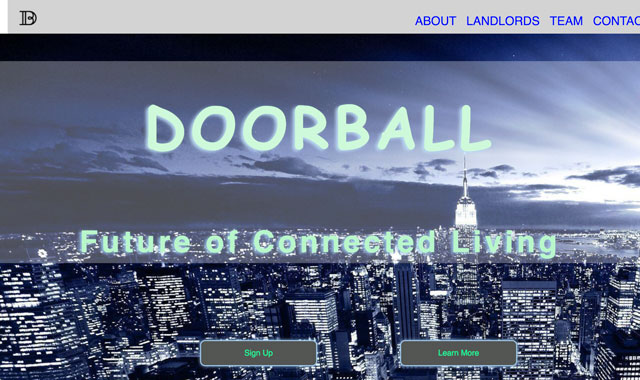
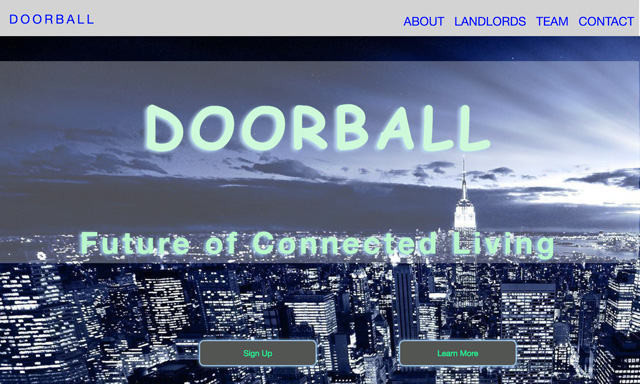
more fixes to alan's project

diff --git a/student-projects/2017/aug-sep/alan/index.html b/student-projects/2017/aug-sep/alan/index.html
@@ -23,13 +23,13 @@
 <body>
   <!-- Header -->
   <header class="header">
-    <a href="#" class="site-title">Doorball</a>
+    <a href="#" class="site-title">DOORBALL</a>
     <nav class="nav-menu">
       <ul class="nav-menu-list">
         <li class="nav-menu-list-item"><a href="#" class="nav-menu-link">About</a></li>
-        <li class="nav-menu-list-item"><a href="https://www.doorball.me/copy-of-landlords" class="nav-menu-link">Landlords</a></li>
-        <li class="nav-menu-list-item"><a href="https://www.doorball.me/team" class="nav-menu-link">Team</a></li>
-        <li class="nav-menu-list-item"><a href="mailto:support@doorball.me" class="nav-menu-link">Contact</a></li>
+        <li class="nav-menu-list-item"><a href="#" class="nav-menu-link">Landlords</a></li>
+        <li class="nav-menu-list-item"><a href="#" class="nav-menu-link">Team</a></li>
+        <li class="nav-menu-list-item"><a href="#" class="nav-menu-link">Contact</a></li>
       </ul>
     </nav>
   </header>
@@ -39,7 +39,7 @@
     <h1>DOORBALL</h1>
     <h2>Future of Connected Living</h2>
     <form>
-      <a href="mailto:support@doorball.me"><input class="button1" value="Sign Up" onclick="window.location.href="'support@doorball.me/button-links.php'"/></a>
+      <a href="mailto:support@doorball.me"><input class="button1" value="Sign Up"/></a>
     </form>
     <form>
     <a href="#more_infoo"><input class="button2" value="Learn More" />
@@ -48,7 +48,7 @@
     <p class="font_6" style="font-size:22px; line-height:1.3em;"><span style="font-size:22px;"><span class="wixGuard"></span></span></p>
     <p class="font_6" style="font-size:22px; line-height:1.3em;"><span style="font-size:22px; width: 700px"><span style="color:#191970;"><span style="letter-spacing:0em;">Doorball is the leading amenity activation platform built for multifamily housing. We supercharge your apartment community through our curated community event experiences. Our app cultivates a sense of belonging by using design thinking to reimagine tribe society in today's digital age.  </span></span></span></p>
     <p class="font_7" style="font-size:19px; line-height:1.3em;"><span class="wixGuard"></span></p>
-    <p class="font_7" style="font-size:19px; line-height:1.3em;"><span style="display:none;">&nbsp;</span></p></div><div style="position: absolute; width: 249px; height: 492px; top: 48px; left: 83px;" class="s_BIwzIGroupSkin" id="comp-ix6okwep" data-reactid=".0.$SITE_ROOT.$desktop_siteRoot.$PAGES_CONTAINER.$centeredContent.$inlineContent.$SITE_PAGES.$c1dmp_DESKTOP.$inlineContent.$comp-ihj9aqpb.$inlineContent.$mediair8ehrsh1/=1$mediair8ehrsh1.$inlineContent.$comp-ix6okwep"><div id="comp-ix6okwepinlineContent" class="s_BIwzIGroupSkininlineContent" data-reactid=".0.$SITE_ROOT.$desktop_siteRoot.$PAGES_CONTAINER.$centeredContent.$inlineContent.$SITE_PAGES.$c1dmp_DESKTOP.$inlineContent.$comp-ihj9aqpb.$inlineContent.$mediair8ehrsh1/=1$mediair8ehrsh1.$inlineContent.$comp-ix6okwep.$inlineContent"><div style="position: absolute; width: 249px; height: 492px; top: 0px; left: 0px;" data-exact-height="492" data-content-padding-horizontal="0" data-content-padding-vertical="0" title="" class="wp2" id="comp-iln2j29b" data-reactid=".0.$SITE_ROOT.$desktop_siteRoot.$PAGES_CONTAINER.$centeredContent.$inlineContent.$SITE_PAGES.$c1dmp_DESKTOP.$inlineContent.$comp-ihj9aqpb.$inlineContent.$mediair8ehrsh1/=1$mediair8ehrsh1.$inlineContent.$comp-ix6okwep.$inlineContent.$comp-iln2j29b"><div style="width: 249px; height: 492px;" id="comp-iln2j29blink" class="wp2link" data-reactid=".0.$SITE_ROOT.$desktop_siteRoot.$PAGES_CONTAINER.$centeredContent.$inlineContent.$SITE_PAGES.$c1dmp_DESKTOP.$inlineContent.$comp-ihj9aqpb.$inlineContent.$mediair8ehrsh1/=1$mediair8ehrsh1.$inlineContent.$comp-ix6okwep.$inlineContent.$comp-iln2j29b.$link"><div id="comp-iln2j29bimg" data-style="" class="wp2img" data-reactid=".0.$SITE_ROOT.$desktop_siteRoot.$PAGES_CONTAINER.$centeredContent.$inlineContent.$SITE_PAGES.$c1dmp_DESKTOP.$inlineContent.$comp-ihj9aqpb.$inlineContent.$mediair8ehrsh1/=1$mediair8ehrsh1.$inlineContent.$comp-ix6okwep.$inlineContent.$comp-iln2j29b.$link.0" style="position: relative; width: 249px; height: 492px;"><div class="wp2imgpreloader" id="comp-iln2j29bimgpreloader" data-reactid=".0.$SITE_ROOT.$desktop_siteRoot.$PAGES_CONTAINER.$centeredContent.$inlineContent.$SITE_PAGES.$c1dmp_DESKTOP.$inlineContent.$comp-ihj9aqpb.$inlineContent.$mediair8ehrsh1/=1$mediair8ehrsh1.$inlineContent.$comp-ix6okwep.$inlineContent.$comp-iln2j29b.$link.0.$preloader"></div><img id="comp-iln2j29bimgimage" alt="" data-type="image" data-reactid=".0.$SITE_ROOT.$desktop_siteRoot.$PAGES_CONTAINER.$centeredContent.$inlineContent.$SITE_PAGES.$c1dmp_DESKTOP.$inlineContent.$comp-ihj9aqpb.$inlineContent.$mediair8ehrsh1/=1$mediair8ehrsh1.$inlineContent.$comp-ix6okwep.$inlineContent.$comp-iln2j29b.$link.0.$image" src="https://static.wixstatic.com/media/edfab9_2914b172f4fe46c3925c3555afad12b3.png/v1/crop/x_540,y_140,w_850,h_1673/fill/w_249,h_492,al_c,usm_0.66_1.00_0.01/edfab9_2914b172f4fe46c3925c3555afad12b3.png" style="width: 249px; height: 492px; object-fit: cover;"><div class="iphoneoverlay"></div></div></div></div><div style="position: absolute; width: 203px; height: 359px; top: 66px; left: 27px;" data-exact-height="359" data-content-padding-horizontal="0" data-content-padding-vertical="0" title="" class="wp2" id="comp-iqy81qho" data-reactid=".0.$SITE_ROOT.$desktop_siteRoot.$PAGES_CONTAINER.$centeredContent.$inlineContent.$SITE_PAGES.$c1dmp_DESKTOP.$inlineContent.$comp-ihj9aqpb.$inlineContent.$mediair8ehrsh1/=1$mediair8ehrsh1.$inlineContent.$comp-ix6okwep.$inlineContent.$comp-iqy81qho"><div style="width: 203px; height: 359px;" id="comp-iqy81qholink" class="wp2link" data-reactid=".0.$SITE_ROOT.$desktop_siteRoot.$PAGES_CONTAINER.$centeredContent.$inlineContent.$SITE_PAGES.$c1dmp_DESKTOP.$inlineContent.$comp-ihj9aqpb.$inlineContent.$mediair8ehrsh1/=1$mediair8ehrsh1.$inlineContent.$comp-ix6okwep.$inlineContent.$comp-iqy81qho.$link"><div id="comp-iqy81qhoimg" data-style="" class="wp2img" data-reactid=".0.$SITE_ROOT.$desktop_siteRoot.$PAGES_CONTAINER.$centeredContent.$inlineContent.$SITE_PAGES.$c1dmp_DESKTOP.$inlineContent.$comp-ihj9aqpb.$inlineContent.$mediair8ehrsh1/=1$mediair8ehrsh1.$inlineContent.$comp-ix6okwep.$inlineContent.$comp-iqy81qho.$link.0" style="position: relative; width: 203px; height: 359px;"><div class="wp2imgpreloader" id="comp-iqy81qhoimgpreloader" data-reactid=".0.$SITE_ROOT.$desktop_siteRoot.$PAGES_CONTAINER.$centeredContent.$inlineContent.$SITE_PAGES.$c1dmp_DESKTOP.$inlineContent.$comp-ihj9aqpb.$inlineContent.$mediair8ehrsh1/=1$mediair8ehrsh1.$inlineContent.$comp-ix6okwep.$inlineContent.$comp-iqy81qho.$link.0.$preloader"></div></div></div></div></div></div><div style="left: 425px; position: absolute; top: 390px; width: 91px; height: 32px;" data-exact-height="32" data-content-padding-horizontal="0" data-content-padding-vertical="0" title="" class="wp2" id="comp-j285w1uh" data-reactid=".0.$SITE_ROOT.$desktop_siteRoot.$PAGES_CONTAINER.$centeredContent.$inlineContent.$SITE_PAGES.$c1dmp_DESKTOP.$inlineContent.$comp-ihj9aqpb.$inlineContent.$mediair8ehrsh1/=1$mediair8ehrsh1.$inlineContent.$comp-j285w1uh"><a style="cursor: pointer; width: 91px; height: 32px;" href="https://play.google.com/store/apps/details?id=com.doorball_react_native" target="_blank" data-content="https://play.google.com/store/apps/details?id=com.doorball_react_native" data-type="external" id="comp-j285w1uhlink" class="wp2link" data-reactid=".0.$SITE_ROOT.$desktop_siteRoot.$PAGES_CONTAINER.$centeredContent.$inlineContent.$SITE_PAGES.$c1dmp_DESKTOP.$inlineContent.$comp-ihj9aqpb.$inlineContent.$mediair8ehrsh1/=1$mediair8ehrsh1.$inlineContent.$comp-j285w1uh.$link"><div id="comp-j285w1uhimg" data-style="" class="wp2img" data-reactid=".0.$SITE_ROOT.$desktop_siteRoot.$PAGES_CONTAINER.$centeredContent.$inlineContent.$SITE_PAGES.$c1dmp_DESKTOP.$inlineContent.$comp-ihj9aqpb.$inlineContent.$mediair8ehrsh1/=1$mediair8ehrsh1.$inlineContent.$comp-j285w1uh.$link.0" style="position: relative; width: 91px; height: 32px;"><div class="wp2imgpreloader" id="comp-j285w1uhimgpreloader" data-reactid=".0.$SITE_ROOT.$desktop_siteRoot.$PAGES_CONTAINER.$centeredContent.$inlineContent.$SITE_PAGES.$c1dmp_DESKTOP.$inlineContent.$comp-ihj9aqpb.$inlineContent.$mediair8ehrsh1/=1$mediair8ehrsh1.$inlineContent.$comp-j285w1uh.$link.0.$preloader"></div></div></a></div><div style="left: 574px; position: absolute; top: 390px; width: 91px; height: 32px;" data-exact-height="32" data-content-padding-horizontal="0" data-content-padding-vertical="0" title="" class="wp2" id="comp-j285w1uk" data-reactid=".0.$SITE_ROOT.$desktop_siteRoot.$PAGES_CONTAINER.$centeredContent.$inlineContent.$SITE_PAGES.$c1dmp_DESKTOP.$inlineContent.$comp-ihj9aqpb.$inlineContent.$mediair8ehrsh1/=1$mediair8ehrsh1.$inlineContent.$comp-j285w1uk"><a style="cursor: pointer; width: 91px; height: 32px;" href="#" target="_blank" data-content="#" data-type="external" id="comp-j285w1uklink" class="wp2link" data-reactid=".0.$SITE_ROOT.$desktop_siteRoot.$PAGES_CONTAINER.$centeredContent.$inlineContent.$SITE_PAGES.$c1dmp_DESKTOP.$inlineContent.$comp-ihj9aqpb.$inlineContent.$mediair8ehrsh1/=1$mediair8ehrsh1.$inlineContent.$comp-j285w1uk.$link"><div id="comp-j285w1ukimg" data-style="" class="wp2img" data-reactid=".0.$SITE_ROOT.$desktop_siteRoot.$PAGES_CONTAINER.$centeredContent.$inlineContent.$SITE_PAGES.$c1dmp_DESKTOP.$inlineContent.$comp-ihj9aqpb.$inlineContent.$mediair8ehrsh1/=1$mediair8ehrsh1.$inlineContent.$comp-j285w1uk.$link.0" style="position: relative; width: 91px; height: 32px;"><div class="wp2imgpreloader" id="comp-j285w1ukimgpreloader" data-reactid=".0.$SITE_ROOT.$desktop_siteRoot.$PAGES_CONTAINER.$centeredContent.$inlineContent.$SITE_PAGES.$c1dmp_DESKTOP.$inlineContent.$comp-ihj9aqpb.$inlineContent.$mediair8ehrsh1/=1$mediair8ehrsh1.$inlineContent.$comp-j285w1uk.$link.0.$preloader"></div><img id="comp-j285w1ukimgimage" alt="" data-type="image" data-reactid=".0.$SITE_ROOT.$desktop_siteRoot.$PAGES_CONTAINER.$centeredContent.$inlineContent.$SITE_PAGES.$c1dmp_DESKTOP.$inlineContent.$comp-ihj9aqpb.$inlineContent.$mediair8ehrsh1/=1$mediair8ehrsh1.$inlineContent.$comp-j285w1uk.$link.0.$image" src="https://static.wixstatic.com/media/edfab9_9a346831c34746cd868e606a84f53022~mv2.png/v1/fill/w_91,h_32,al_c,usm_0.66_1.00_0.01/edfab9_9a346831c34746cd868e606a84f53022~mv2.png" style="width: 91px; height: 32px; object-fit: cover;"></div></a></div></div>
+    <p class="font_7" style="font-size:19px; line-height:1.3em;"><span style="display:none;">&nbsp;</span></p></div><div style="position: absolute; width: 249px; height: 492px; top: 48px; left: 83px;" class="s_BIwzIGroupSkin" id="comp-ix6okwep" data-reactid=".0.$SITE_ROOT.$desktop_siteRoot.$PAGES_CONTAINER.$centeredContent.$inlineContent.$SITE_PAGES.$c1dmp_DESKTOP.$inlineContent.$comp-ihj9aqpb.$inlineContent.$mediair8ehrsh1/=1$mediair8ehrsh1.$inlineContent.$comp-ix6okwep"><div id="comp-ix6okwepinlineContent" class="s_BIwzIGroupSkininlineContent" data-reactid=".0.$SITE_ROOT.$desktop_siteRoot.$PAGES_CONTAINER.$centeredContent.$inlineContent.$SITE_PAGES.$c1dmp_DESKTOP.$inlineContent.$comp-ihj9aqpb.$inlineContent.$mediair8ehrsh1/=1$mediair8ehrsh1.$inlineContent.$comp-ix6okwep.$inlineContent"><div style="position: absolute; width: 249px; height: 492px; top: 0px; left: 0px;" data-exact-height="492" data-content-padding-horizontal="0" data-content-padding-vertical="0" title="" class="wp2" id="comp-iln2j29b" data-reactid=".0.$SITE_ROOT.$desktop_siteRoot.$PAGES_CONTAINER.$centeredContent.$inlineContent.$SITE_PAGES.$c1dmp_DESKTOP.$inlineContent.$comp-ihj9aqpb.$inlineContent.$mediair8ehrsh1/=1$mediair8ehrsh1.$inlineContent.$comp-ix6okwep.$inlineContent.$comp-iln2j29b"><div style="width: 249px; height: 492px;" id="comp-iln2j29blink" class="wp2link" data-reactid=".0.$SITE_ROOT.$desktop_siteRoot.$PAGES_CONTAINER.$centeredContent.$inlineContent.$SITE_PAGES.$c1dmp_DESKTOP.$inlineContent.$comp-ihj9aqpb.$inlineContent.$mediair8ehrsh1/=1$mediair8ehrsh1.$inlineContent.$comp-ix6okwep.$inlineContent.$comp-iln2j29b.$link"><div id="comp-iln2j29bimg" data-style="" class="wp2img" data-reactid=".0.$SITE_ROOT.$desktop_siteRoot.$PAGES_CONTAINER.$centeredContent.$inlineContent.$SITE_PAGES.$c1dmp_DESKTOP.$inlineContent.$comp-ihj9aqpb.$inlineContent.$mediair8ehrsh1/=1$mediair8ehrsh1.$inlineContent.$comp-ix6okwep.$inlineContent.$comp-iln2j29b.$link.0" style="position: relative; width: 249px; height: 492px;"><div class="wp2imgpreloader" id="comp-iln2j29bimgpreloader" data-reactid=".0.$SITE_ROOT.$desktop_siteRoot.$PAGES_CONTAINER.$centeredContent.$inlineContent.$SITE_PAGES.$c1dmp_DESKTOP.$inlineContent.$comp-ihj9aqpb.$inlineContent.$mediair8ehrsh1/=1$mediair8ehrsh1.$inlineContent.$comp-ix6okwep.$inlineContent.$comp-iln2j29b.$link.0.$preloader"></div><img id="comp-iln2j29bimgimage" alt="" data-type="image" data-reactid=".0.$SITE_ROOT.$desktop_siteRoot.$PAGES_CONTAINER.$centeredContent.$inlineContent.$SITE_PAGES.$c1dmp_DESKTOP.$inlineContent.$comp-ihj9aqpb.$inlineContent.$mediair8ehrsh1/=1$mediair8ehrsh1.$inlineContent.$comp-ix6okwep.$inlineContent.$comp-iln2j29b.$link.0.$image" src="https://static.wixstatic.com/media/edfab9_2914b172f4fe46c3925c3555afad12b3.png/v1/crop/x_540,y_140,w_850,h_1673/fill/w_249,h_492,al_c,usm_0.66_1.00_0.01/edfab9_2914b172f4fe46c3925c3555afad12b3.png" style="width: 249px; height: 492px; object-fit: cover;"><div class="iphoneoverlay"></div></div></div></div><div style="position: absolute; width: 203px; height: 359px; top: 66px; left: 27px;" data-exact-height="359" data-content-padding-horizontal="0" data-content-padding-vertical="0" title="" class="wp2" id="comp-iqy81qho" data-reactid=".0.$SITE_ROOT.$desktop_siteRoot.$PAGES_CONTAINER.$centeredContent.$inlineContent.$SITE_PAGES.$c1dmp_DESKTOP.$inlineContent.$comp-ihj9aqpb.$inlineContent.$mediair8ehrsh1/=1$mediair8ehrsh1.$inlineContent.$comp-ix6okwep.$inlineContent.$comp-iqy81qho"><div style="width: 203px; height: 359px;" id="comp-iqy81qholink" class="wp2link" data-reactid=".0.$SITE_ROOT.$desktop_siteRoot.$PAGES_CONTAINER.$centeredContent.$inlineContent.$SITE_PAGES.$c1dmp_DESKTOP.$inlineContent.$comp-ihj9aqpb.$inlineContent.$mediair8ehrsh1/=1$mediair8ehrsh1.$inlineContent.$comp-ix6okwep.$inlineContent.$comp-iqy81qho.$link"><div id="comp-iqy81qhoimg" data-style="" class="wp2img" data-reactid=".0.$SITE_ROOT.$desktop_siteRoot.$PAGES_CONTAINER.$centeredContent.$inlineContent.$SITE_PAGES.$c1dmp_DESKTOP.$inlineContent.$comp-ihj9aqpb.$inlineContent.$mediair8ehrsh1/=1$mediair8ehrsh1.$inlineContent.$comp-ix6okwep.$inlineContent.$comp-iqy81qho.$link.0" style="position: relative; width: 203px; height: 359px;"><div class="wp2imgpreloader" id="comp-iqy81qhoimgpreloader" data-reactid=".0.$SITE_ROOT.$desktop_siteRoot.$PAGES_CONTAINER.$centeredContent.$inlineContent.$SITE_PAGES.$c1dmp_DESKTOP.$inlineContent.$comp-ihj9aqpb.$inlineContent.$mediair8ehrsh1/=1$mediair8ehrsh1.$inlineContent.$comp-ix6okwep.$inlineContent.$comp-iqy81qho.$link.0.$preloader"></div></div></div></div></div></div><div style="left: 425px; position: absolute; top: 390px; width: 91px; height: 32px;" data-exact-height="32" data-content-padding-horizontal="0" data-content-padding-vertical="0" title="" class="wp2" id="comp-j285w1uh" data-reactid=".0.$SITE_ROOT.$desktop_siteRoot.$PAGES_CONTAINER.$centeredContent.$inlineContent.$SITE_PAGES.$c1dmp_DESKTOP.$inlineContent.$comp-ihj9aqpb.$inlineContent.$mediair8ehrsh1/=1$mediair8ehrsh1.$inlineContent.$comp-j285w1uh"><a style="cursor: pointer; width: 91px; height: 32px;" href="https://play.google.com/store/apps/details?id=com.doorball_react_native" target="_blank" data-content="https://play.google.com/store/apps/details?id=com.doorball_react_native" data-type="external" id="comp-j285w1uhlink" class="wp2link" data-reactid=".0.$SITE_ROOT.$desktop_siteRoot.$PAGES_CONTAINER.$centeredContent.$inlineContent.$SITE_PAGES.$c1dmp_DESKTOP.$inlineContent.$comp-ihj9aqpb.$inlineContent.$mediair8ehrsh1/=1$mediair8ehrsh1.$inlineContent.$comp-j285w1uh.$link"><div id="comp-j285w1uhimg" data-style="" class="wp2img" data-reactid=".0.$SITE_ROOT.$desktop_siteRoot.$PAGES_CONTAINER.$centeredContent.$inlineContent.$SITE_PAGES.$c1dmp_DESKTOP.$inlineContent.$comp-ihj9aqpb.$inlineContent.$mediair8ehrsh1/=1$mediair8ehrsh1.$inlineContent.$comp-j285w1uh.$link.0" style="position: relative; width: 91px; height: 32px;"><div class="wp2imgpreloader" id="comp-j285w1uhimgpreloader" data-reactid=".0.$SITE_ROOT.$desktop_siteRoot.$PAGES_CONTAINER.$centeredContent.$inlineContent.$SITE_PAGES.$c1dmp_DESKTOP.$inlineContent.$comp-ihj9aqpb.$inlineContent.$mediair8ehrsh1/=1$mediair8ehrsh1.$inlineContent.$comp-j285w1uh.$link.0.$preloader"></div><img id="comp-j285w1uhimgimage" alt="" data-type="image" data-reactid=".0.$SITE_ROOT.$desktop_siteRoot.$PAGES_CONTAINER.$centeredContent.$inlineContent.$SITE_PAGES.$c1dmp_DESKTOP.$inlineContent.$comp-ihj9aqpb.$inlineContent.$mediair8ehrsh1/=1$mediair8ehrsh1.$inlineContent.$comp-j285w1uh.$link.0.$image" src="https://static.wixstatic.com/media/edfab9_fd74e1e8ed3241adbe34dbf75d6e6a42~mv2.png/v1/fill/w_91,h_32,al_c,usm_0.66_1.00_0.01/edfab9_fd74e1e8ed3241adbe34dbf75d6e6a42~mv2.png" style="width: 91px; height: 32px; object-fit: cover;"></div></a></div><div style="left: 574px; position: absolute; top: 390px; width: 91px; height: 32px;" data-exact-height="32" data-content-padding-horizontal="0" data-content-padding-vertical="0" title="" class="wp2" id="comp-j285w1uk" data-reactid=".0.$SITE_ROOT.$desktop_siteRoot.$PAGES_CONTAINER.$centeredContent.$inlineContent.$SITE_PAGES.$c1dmp_DESKTOP.$inlineContent.$comp-ihj9aqpb.$inlineContent.$mediair8ehrsh1/=1$mediair8ehrsh1.$inlineContent.$comp-j285w1uk"><a style="cursor: pointer; width: 91px; height: 32px;" href="#" target="_blank" data-content="#" data-type="external" id="comp-j285w1uklink" class="wp2link" data-reactid=".0.$SITE_ROOT.$desktop_siteRoot.$PAGES_CONTAINER.$centeredContent.$inlineContent.$SITE_PAGES.$c1dmp_DESKTOP.$inlineContent.$comp-ihj9aqpb.$inlineContent.$mediair8ehrsh1/=1$mediair8ehrsh1.$inlineContent.$comp-j285w1uk.$link"><div id="comp-j285w1ukimg" data-style="" class="wp2img" data-reactid=".0.$SITE_ROOT.$desktop_siteRoot.$PAGES_CONTAINER.$centeredContent.$inlineContent.$SITE_PAGES.$c1dmp_DESKTOP.$inlineContent.$comp-ihj9aqpb.$inlineContent.$mediair8ehrsh1/=1$mediair8ehrsh1.$inlineContent.$comp-j285w1uk.$link.0" style="position: relative; width: 91px; height: 32px;"><div class="wp2imgpreloader" id="comp-j285w1ukimgpreloader" data-reactid=".0.$SITE_ROOT.$desktop_siteRoot.$PAGES_CONTAINER.$centeredContent.$inlineContent.$SITE_PAGES.$c1dmp_DESKTOP.$inlineContent.$comp-ihj9aqpb.$inlineContent.$mediair8ehrsh1/=1$mediair8ehrsh1.$inlineContent.$comp-j285w1uk.$link.0.$preloader"></div><img id="comp-j285w1ukimgimage" alt="" data-type="image" data-reactid=".0.$SITE_ROOT.$desktop_siteRoot.$PAGES_CONTAINER.$centeredContent.$inlineContent.$SITE_PAGES.$c1dmp_DESKTOP.$inlineContent.$comp-ihj9aqpb.$inlineContent.$mediair8ehrsh1/=1$mediair8ehrsh1.$inlineContent.$comp-j285w1uk.$link.0.$image" src="https://static.wixstatic.com/media/edfab9_9a346831c34746cd868e606a84f53022~mv2.png/v1/fill/w_91,h_32,al_c,usm_0.66_1.00_0.01/edfab9_9a346831c34746cd868e606a84f53022~mv2.png" style="width: 91px; height: 32px; object-fit: cover;"></div></a></div></div>
 <!--More Info section-->
 <section id= "more_infoo">
 <section id= "more_info">
@@ -72,10 +72,8 @@
         <p class="exclusiveLocalPerks" style="font-size:19px; line-height:1em;"><span style="font-size:15px;"><span style="font-weight:bold;"><span style="color:rgb(53, 136, 204)"><span style="letter-spacing:0em;">Get sweet deals at businesses right around the corner from your building. 20% off at that local coffee shop and 10% off brunch, anyone?</span></span></span></span><span style="display:none;">&nbsp;</span></p></div><div id="comp-j7p3l6t8" data-align="center" data-disabled="false" data-margin="0" data-should-use-flex="true" style="left: 419px; position: absolute; top: 645px; height: 46px; min-height: 23px; width: 189px;" class="style-j7p3mwgi" data-state="desktop shouldUseFlex center" data-reactid=".0.$SITE_ROOT.$desktop_siteRoot.$PAGES_CONTAINER.$centeredContent.$inlineContent.$SITE_PAGES.$c1dmp_DESKTOP.$inlineContent.$comp-ix6omybg.$inlineContent.$comp-ix6omyip/=1$comp-ix6omyip.$inlineContent.$comp-j7p3l6t8" data-prev-text="Contact Us" data-prev-min-width="87" data-prev-width="189"><a href="mailto:support@doorball.me?subject=Bring Doorball to me!" target="_self" data-content="support@doorball.me" data-type="mail" role="button" id="comp-j7p3l6t8link" class="g-transparent-a style-j7p3mwgilink" data-reactid=".0.$SITE_ROOT.$desktop_siteRoot.$PAGES_CONTAINER.$centeredContent.$inlineContent.$SITE_PAGES.$c1dmp_DESKTOP.$inlineContent.$comp-ix6omybg.$inlineContent.$comp-ix6omyip/=1$comp-ix6omyip.$inlineContent.$comp-j7p3l6t8.$link"><span id="comp-j7p3l6t8label" class="style-j7p3mwgilabel" data-reactid=".0.$SITE_ROOT.$desktop_siteRoot.$PAGES_CONTAINER.$centeredContent.$inlineContent.$SITE_PAGES.$c1dmp_DESKTOP.$inlineContent.$comp-ix6omybg.$inlineContent.$comp-ix6omyip/=1$comp-ix6omyip.$inlineContent.$comp-j7p3l6t8.$link.$label" style=""></span></a></div></div>
         <a href="mailto:support@doorball.me?subject=Bring doorball to me!" target="_self" data-content="support@doorball.me" data-type="mail" role="button" id="comp-izn5n6xg1link" class="g-transparent-a style-izn5n6xk1link" data-reactid=".0.$SITE_ROOT.$desktop_siteRoot.$PAGES_CONTAINER.$centeredContent.$inlineContent.$SITE_PAGES.$mqby2_DESKTOP.$inlineContent.$comp-izn5n6x9.$inlineContent.$comp-izn5n6xb/=1$comp-izn5n6xb.$inlineContent.$comp-izn5n6xg1.$link"><span id="comp-izn5n6xg1label" class="style-izn5n6xk1label" data-reactid=".0.$SITE_ROOT.$desktop_siteRoot.$PAGES_CONTAINER.$centeredContent.$inlineContent.$SITE_PAGES.$mqby2_DESKTOP.$inlineContent.$comp-izn5n6x9.$inlineContent.$comp-izn5n6xb/=1$comp-izn5n6xb.$inlineContent.$comp-izn5n6xg1.$link.$label" style=""></span></a>
       </section>
-        <p id="footer"></p>
-        <div id="footer1">
-          <p>© 2017&nbsp;by Doorball Inc. All Rights Reserved.  Privacy Policy</p>
-
-        </div>
+        <p id="footer">
+          © 2017&nbsp;by Doorball Inc. All Rights Reserved.  Privacy Policy
+        </p>
       </body>
     </html>

diff --git a/student-projects/2017/aug-sep/alan/css/custom.css b/student-projects/2017/aug-sep/alan/css/custom.css
@@ -16,8 +16,6 @@ padding-bottom:13px;
 overflow: auto;
 background-color: lightgrey;
 font-size:25px;
-margin-left:15;
-margin-right:-30;
 /* float: left; */
 }
 .moveimage {
@@ -166,7 +164,6 @@ bottom: 580;
 #more_infooo{
 background-color: darkblue;
 }
-
 #footer {
 background: #00004d;
 width: 100%;
@@ -174,27 +171,10 @@ height: 100px;
 position: absolute;
 top: 2500;
 left: 0;
-}
-.style-j7p3mwgilabel {
-position: relative;
-bottom: 100;
-}
-/* Landing Section */
-#footer {
 color: white;
-position: absolute;
-margin-left:30;
 }
-#footer1 {
-color: white;
-top:1375;
-left:305;
-position: relative;
-}
-.landing-section {
-height: 100vh;
-text-align:center;
-}
+
+
 .iphoneoverlay {
 position: absolute;
 height: calc(100% - 126px);
